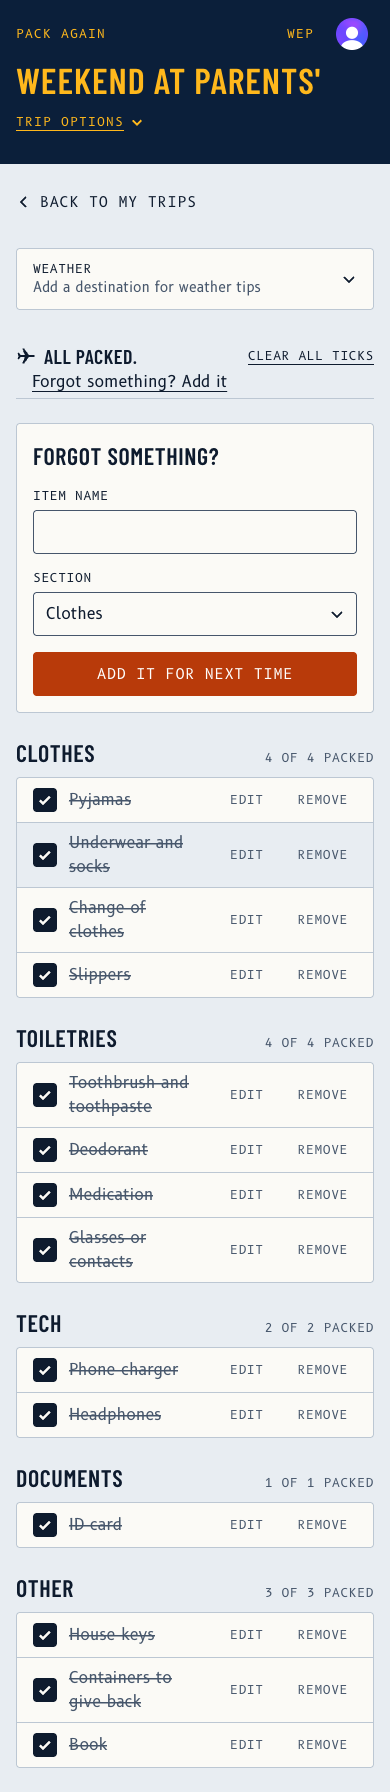
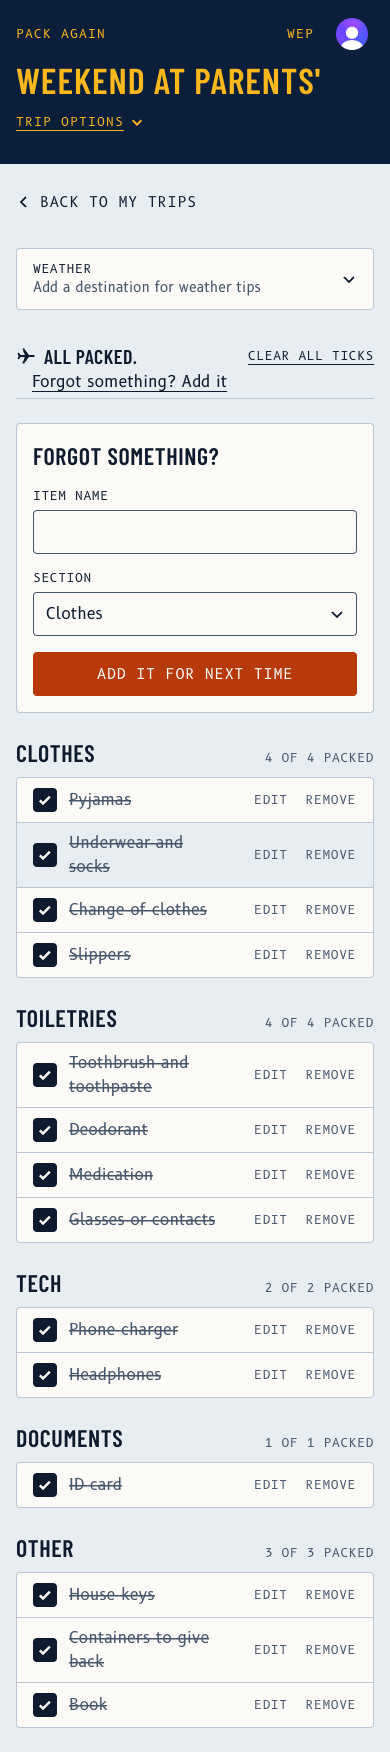
Retake the after screenshots for batch 4
Trip pages show each section's count, Edit beside Remove, and Hide packed
in the bar; All packed fits one line on a phone. Two new screens: an item
open for editing, and packed items hidden.

diff --git a/docs/polish-2/README.md b/docs/polish-2/README.md
@@ -18,6 +18,8 @@ Every screen before and after the second polish pass (branch `polish`), at 390 p
 
 - `34-trip-options-menu`: the Trip options menu, open (batch 1).
 - `35-trip-from-add-destination`: a trip opened from a card's "Add a destination for weather tips", with focus in Destination (batch 3). Taken by arriving at each width, since resizing after arriving would hide the phone's zone.
+- `36-trip-edit-item`: an item open for editing in its row (batch 4).
+- `37-trip-packed-hidden`: packed items hidden from the packing bar (batch 4).
 
 The test accounts have no first name in Clerk, so the greeting on My trips says "Good evening." with no name.
 
